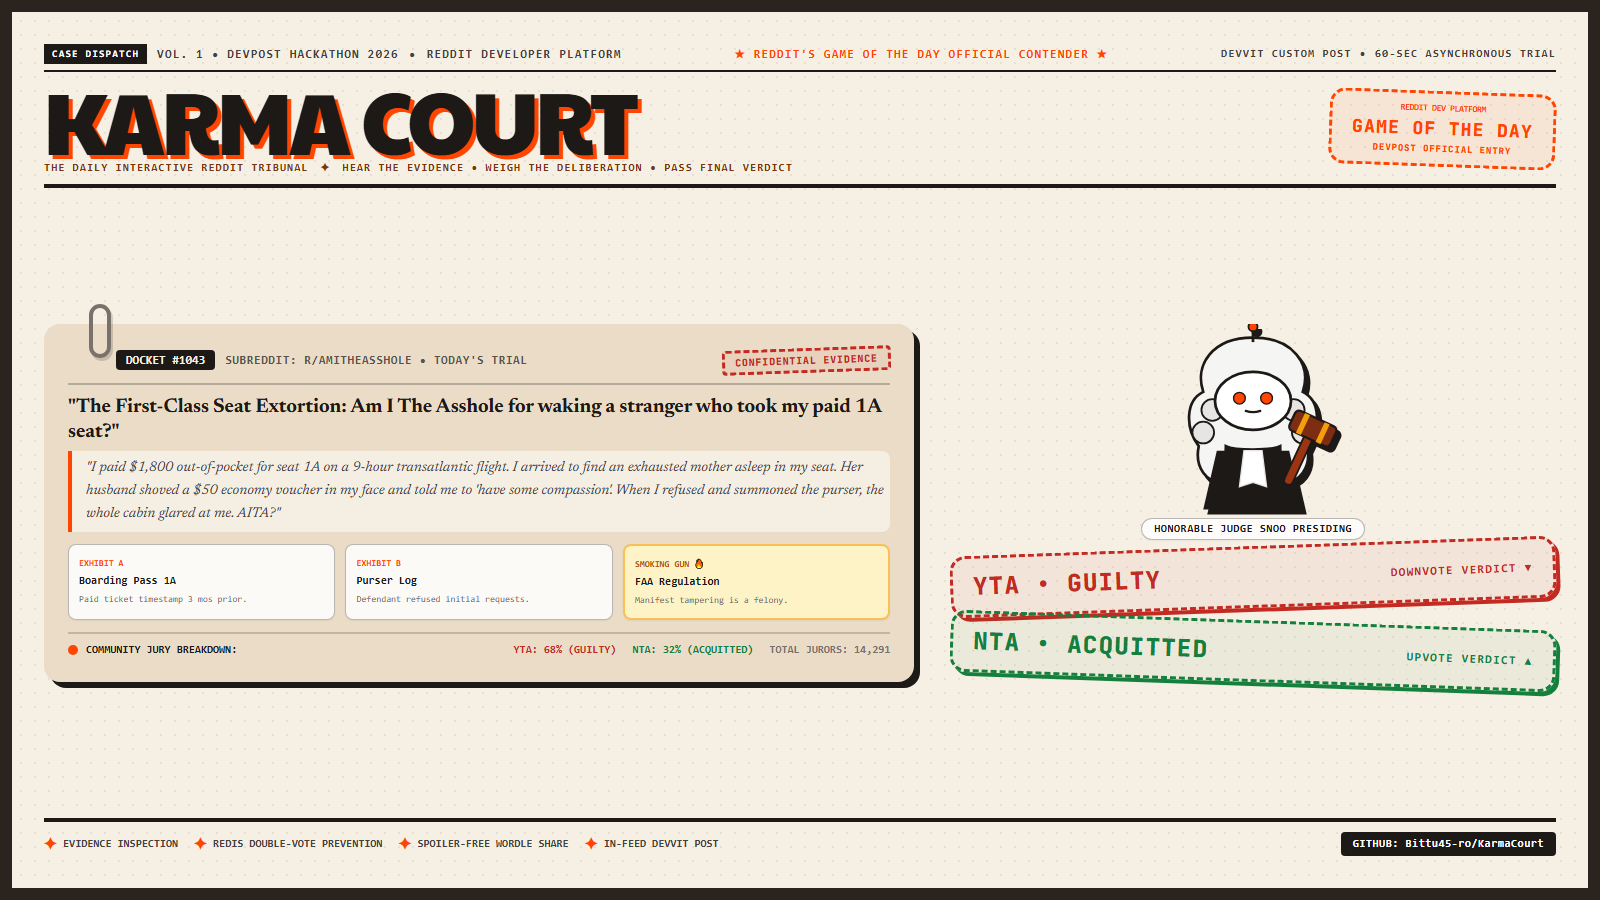
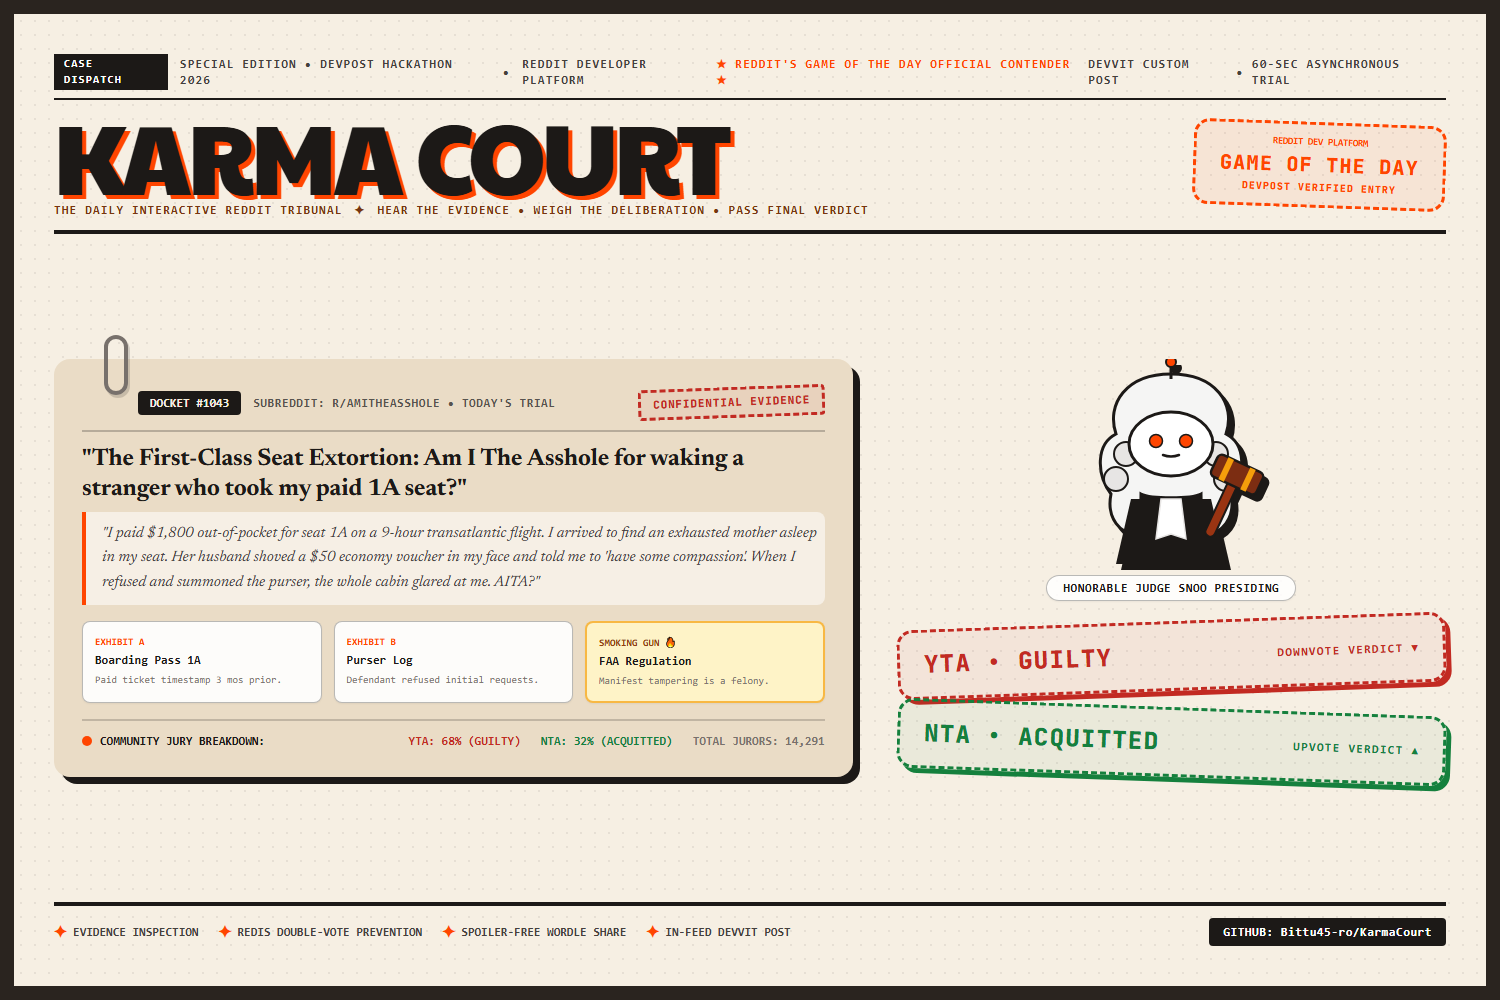
Update thumbnail: Exact 3:2 ratio (1500x1000) for Devpost specifications

Changed region(s): [[0.0, 0.0311, 1.0, 0.9644]]

diff --git a/preview/thumbnail_human.html b/preview/thumbnail_human.html
@@ -2,7 +2,7 @@
 <html lang="en">
 <head>
   <meta charset="UTF-8">
-  <title>KarmaCourt — Human Crafted Hackathon Poster</title>
+  <title>KarmaCourt — Human Crafted Hackathon Poster (3:2 Ratio)</title>
   
   <!-- Tailwind CSS -->
   <script src="https://cdn.tailwindcss.com"></script>
@@ -32,8 +32,8 @@
     }
 
     body {
-      width: 1600px;
-      height: 900px;
+      width: 1500px;
+      height: 1000px;
       overflow: hidden;
       background-color: var(--paper);
       color: var(--ink);
@@ -44,7 +44,7 @@
     /* Subtle Newsprint Halftone Texture */
     .halftone-bg {
       background-image: 
-        radial-gradient(rgba(28, 25, 23, 0.07) 1.2px, transparent 1.2px);
+        radial-gradient(rgba(28, 25, 23, 0.075) 1.2px, transparent 1.2px);
       background-size: 14px 14px;
     }
 
@@ -90,30 +90,30 @@
 
     /* Paperclip */
     .paperclip {
-      width: 22px;
-      height: 54px;
-      border: 4px solid #78716C;
-      border-radius: 12px;
+      width: 24px;
+      height: 60px;
+      border: 4.5px solid #78716C;
+      border-radius: 13px;
       position: absolute;
-      top: -20px;
-      left: 45px;
+      top: -24px;
+      left: 50px;
       z-index: 30;
       background: transparent;
       box-shadow: 2px 3px 0 rgba(0,0,0,0.15);
     }
   </style>
 </head>
-<body class="halftone-bg flex flex-col justify-between p-8 border-[12px] border-[#2A241F]">
+<body class="halftone-bg flex flex-col justify-between p-10 border-[14px] border-[#2A241F]">
 
   <!-- ========================================================
        TOP SECTION: COURTROOM GAZETTE MASTHEAD
        ======================================================== -->
   <header>
-    <!-- Top Meta Row -->
-    <div class="flex items-center justify-between text-xs font-mono font-bold tracking-widest uppercase border-b-2 border-[#1C1917] pb-1.5 text-[#44403C]">
-      <div class="flex items-center gap-2.5">
-        <span class="bg-[#1C1917] text-white px-2 py-0.5 font-black text-[10px]">CASE DISPATCH</span>
-        <span>VOL. 1 • DEVPOST HACKATHON 2026</span>
+    <!-- Top Meta Dispatch Line -->
+    <div class="flex items-center justify-between text-xs font-mono font-bold tracking-widest uppercase border-b-2 border-[#1C1917] pb-2 text-[#44403C]">
+      <div class="flex items-center gap-3">
+        <span class="bg-[#1C1917] text-white px-2.5 py-0.5 font-black text-[11px]">CASE DISPATCH</span>
+        <span>SPECIAL EDITION • DEVPOST HACKATHON 2026</span>
         <span>•</span>
         <span>REDDIT DEVELOPER PLATFORM</span>
       </div>
@@ -122,7 +122,7 @@
         <span>★ REDDIT'S GAME OF THE DAY OFFICIAL CONTENDER ★</span>
       </div>
 
-      <div class="flex items-center gap-2 text-[11px]">
+      <div class="flex items-center gap-2 text-xs">
         <span>DEVVIT CUSTOM POST</span>
         <span>•</span>
         <span>60-SEC ASYNCHRONOUS TRIAL</span>
@@ -130,12 +130,12 @@
     </div>
 
     <!-- Main Headline Banner -->
-    <div class="flex items-center justify-between pt-2.5 pb-2 border-b-4 border-[#1C1917]">
+    <div class="flex items-center justify-between pt-3 pb-3 border-b-4 border-[#1C1917]">
       <div class="flex-1">
-        <h1 class="poster-title text-[86px]">
+        <h1 class="poster-title text-[98px]">
           KARMA COURT
         </h1>
-        <div class="flex items-center gap-3 mt-0.5 font-mono text-[11px] font-black tracking-widest text-[#78350F] uppercase">
+        <div class="flex items-center gap-3 mt-1 font-mono text-xs font-black tracking-widest text-[#78350F] uppercase">
           <span>THE DAILY INTERACTIVE REDDIT TRIBUNAL</span>
           <span>✦</span>
           <span>HEAR THE EVIDENCE • WEIGH THE DELIBERATION • PASS FINAL VERDICT</span>
@@ -143,11 +143,11 @@
       </div>
 
       <!-- Right Masthead Stamp Seal -->
-      <div class="rubber-stamp stamp-orange px-5 py-2.5 rounded-2xl transform rotate-2 shrink-0">
+      <div class="rubber-stamp stamp-orange px-6 py-3 rounded-2xl transform rotate-2 shrink-0">
         <div class="flex flex-col items-center leading-none text-center">
-          <span class="text-[9px] font-mono tracking-tighter">REDDIT DEV PLATFORM</span>
-          <span class="text-lg font-black mt-0.5">GAME OF THE DAY</span>
-          <span class="text-[9px] tracking-widest mt-0.5">DEVPOST OFFICIAL ENTRY</span>
+          <span class="text-[10px] font-mono tracking-tighter">REDDIT DEV PLATFORM</span>
+          <span class="text-xl font-black mt-1">GAME OF THE DAY</span>
+          <span class="text-[10px] tracking-widest mt-1">DEVPOST VERIFIED ENTRY</span>
         </div>
       </div>
     </div>
@@ -155,20 +155,20 @@
 
 
   <!-- ========================================================
-       CENTER STAGE: PHYSICAL CASE FILE & JUDGE SNOO
+       CENTER STAGE: PHYSICAL CASE FILE & JUDGE SNOO (3:2 RATIO)
        ======================================================== -->
-  <main class="grid grid-cols-12 gap-7 items-stretch my-auto py-2">
+  <main class="grid grid-cols-12 gap-8 items-stretch my-auto py-3">
 
     <!-- LEFT 7 COLS: THE PHYSICAL MANILA CASE FILE DOCKET -->
-    <div class="col-span-7 bg-[#EADCC6] rounded-2xl p-6 border-3 border-[#1C1917] shadow-[6px_6px_0_#1C1917] relative flex flex-col justify-between">
+    <div class="col-span-7 bg-[#EADCC6] rounded-2xl p-7 border-3 border-[#1C1917] shadow-[7px_7px_0_#1C1917] relative flex flex-col justify-between">
       
       <!-- Realistic Paperclip -->
       <div class="paperclip"></div>
 
       <!-- Manila Folder Tab Header -->
-      <div class="flex items-center justify-between border-b-2 border-[#1C1917]/25 pb-2.5 mb-2.5 pl-12">
-        <div class="flex items-center gap-2.5">
-          <span class="font-mono text-xs font-black bg-[#1C1917] text-[#F6EFE3] px-2.5 py-0.5 rounded">
+      <div class="flex items-center justify-between border-b-2 border-[#1C1917]/25 pb-3 mb-3 pl-14">
+        <div class="flex items-center gap-3">
+          <span class="font-mono text-xs font-black bg-[#1C1917] text-[#F6EFE3] px-3 py-1 rounded">
             DOCKET #1043
           </span>
           <span class="font-mono text-xs font-bold text-[#57534E] uppercase tracking-wider">
@@ -177,47 +177,47 @@
         </div>
 
         <!-- Red Confidential Stamp -->
-        <div class="rubber-stamp stamp-red px-2.5 py-0.5 rounded text-[10px] transform -rotate-2">
+        <div class="rubber-stamp stamp-red px-3 py-1 rounded text-[11px] transform -rotate-2">
           CONFIDENTIAL EVIDENCE
         </div>
       </div>
 
       <!-- Case Dilemma Story -->
-      <div class="mb-3">
-        <h2 class="text-xl font-bold leading-tight text-[#1C1917] mb-1.5 font-display">
+      <div class="mb-4">
+        <h2 class="text-2xl font-bold leading-tight text-[#1C1917] mb-2 font-display">
           "The First-Class Seat Extortion: Am I The Asshole for waking a stranger who took my paid 1A seat?"
         </h2>
-        <p class="text-[14px] text-[#44403C] leading-relaxed italic border-l-4 border-[#FF4500] pl-3.5 bg-white/50 py-1.5 rounded-r-lg">
+        <p class="text-[15px] text-[#44403C] leading-relaxed italic border-l-4 border-[#FF4500] pl-4 bg-white/55 py-2.5 rounded-r-lg">
           "I paid $1,800 out-of-pocket for seat 1A on a 9-hour transatlantic flight. I arrived to find an exhausted mother asleep in my seat. Her husband shoved a $50 economy voucher in my face and told me to 'have some compassion'. When I refused and summoned the purser, the whole cabin glared at me. AITA?"
         </p>
       </div>
 
       <!-- The 3 Attached Exhibits (Deduction Mechanics) -->
-      <div class="grid grid-cols-3 gap-2.5 mb-3 font-mono text-xs">
-        <div class="bg-white/85 p-2.5 rounded-lg border border-[#1C1917]/30 shadow-sm">
-          <span class="font-bold text-[#FF4500] block text-[9px] uppercase">EXHIBIT A</span>
-          <span class="font-black text-[#1C1917] block text-[11px] mt-0.5">Boarding Pass 1A</span>
-          <span class="text-[9px] text-[#78716C] block mt-0.5">Paid ticket timestamp 3 mos prior.</span>
+      <div class="grid grid-cols-3 gap-3 mb-4 font-mono text-xs">
+        <div class="bg-white/90 p-3 rounded-lg border border-[#1C1917]/30 shadow-sm">
+          <span class="font-bold text-[#FF4500] block text-[10px] uppercase">EXHIBIT A</span>
+          <span class="font-black text-[#1C1917] block text-xs mt-0.5">Boarding Pass 1A</span>
+          <span class="text-[10px] text-[#78716C] block mt-1">Paid ticket timestamp 3 mos prior.</span>
         </div>
-        <div class="bg-white/85 p-2.5 rounded-lg border border-[#1C1917]/30 shadow-sm">
-          <span class="font-bold text-[#FF4500] block text-[9px] uppercase">EXHIBIT B</span>
-          <span class="font-black text-[#1C1917] block text-[11px] mt-0.5">Purser Log</span>
-          <span class="text-[9px] text-[#78716C] block mt-0.5">Defendant refused initial requests.</span>
+        <div class="bg-white/90 p-3 rounded-lg border border-[#1C1917]/30 shadow-sm">
+          <span class="font-bold text-[#FF4500] block text-[10px] uppercase">EXHIBIT B</span>
+          <span class="font-black text-[#1C1917] block text-xs mt-0.5">Purser Log</span>
+          <span class="text-[10px] text-[#78716C] block mt-1">Defendant refused initial requests.</span>
         </div>
-        <div class="bg-amber-100/95 p-2.5 rounded-lg border-2 border-amber-500/60 shadow-sm">
-          <span class="font-black text-amber-700 block text-[9px] uppercase">SMOKING GUN 🔥</span>
-          <span class="font-black text-[#1C1917] block text-[11px] mt-0.5">FAA Regulation</span>
-          <span class="text-[9px] text-[#78716C] block mt-0.5">Manifest tampering is a felony.</span>
+        <div class="bg-amber-100 p-3 rounded-lg border-2 border-amber-500/70 shadow-sm">
+          <span class="font-black text-amber-800 block text-[10px] uppercase">SMOKING GUN 🔥</span>
+          <span class="font-black text-[#1C1917] block text-xs mt-0.5">FAA Regulation</span>
+          <span class="text-[10px] text-[#78716C] block mt-1">Manifest tampering is a felony.</span>
         </div>
       </div>
 
       <!-- Voting Verdict Strip Inside Docket -->
-      <div class="flex items-center justify-between pt-2 border-t-2 border-[#1C1917]/20 font-mono text-xs">
+      <div class="flex items-center justify-between pt-3 border-t-2 border-[#1C1917]/20 font-mono text-xs">
         <div class="flex items-center gap-2">
           <span class="w-2.5 h-2.5 rounded-full bg-[#FF4500]"></span>
-          <span class="font-black text-[#1C1917] text-[11px]">COMMUNITY JURY BREAKDOWN:</span>
+          <span class="font-black text-[#1C1917]">COMMUNITY JURY BREAKDOWN:</span>
         </div>
-        <div class="flex items-center gap-4 font-black text-[11px]">
+        <div class="flex items-center gap-5 font-black">
           <span class="text-[#C22A22]">YTA: 68% (GUILTY)</span>
           <span class="text-[#15803D]">NTA: 32% (ACQUITTED)</span>
           <span class="text-[#78716C]">TOTAL JURORS: 14,291</span>
@@ -227,13 +227,13 @@
     </div>
 
     <!-- RIGHT 5 COLS: JUDGE SNOO MASCOT + TACTILE STAMPS -->
-    <div class="col-span-5 flex flex-col justify-between items-center text-center pl-2">
+    <div class="col-span-5 flex flex-col justify-between items-center text-center pl-3">
       
       <!-- Top: Handcrafted Judge Snoo with British Judge Wig & Gavel -->
       <div class="relative flex flex-col items-center">
         
         <!-- Authentic Handcrafted Judge Snoo SVG -->
-        <svg width="200" height="190" viewBox="0 0 220 210" fill="none" class="filter drop-shadow-[4px_5px_0_#1C1917]">
+        <svg width="220" height="210" viewBox="0 0 220 210" fill="none" class="filter drop-shadow-[5px_6px_0_#1C1917]">
           <!-- Classic Powdered Judge Wig (White Curly Hair) -->
           <path d="M55 75 C45 45, 65 15, 110 15 C155 15, 175 45, 165 75 C185 85, 185 115, 170 135 C175 160, 160 175, 145 175 C140 160, 140 145, 140 135 C130 140, 90 140, 80 135 C80 145, 80 160, 75 175 C60 175, 45 160, 50 135 C35 115, 35 85, 55 75 Z" fill="#F5F5F4" stroke="#1C1917" stroke-width="3"/>
           <circle cx="65" cy="95" r="12" fill="#E7E5E4" stroke="#1C1917" stroke-width="2"/>
@@ -268,27 +268,27 @@
           <circle cx="110" cy="3" r="5" fill="#FF4500" stroke="#1C1917" stroke-width="2"/>
         </svg>
 
-        <span class="font-mono text-[11px] font-black uppercase text-[#1C1917] mt-1 tracking-wider bg-white/80 px-3 py-0.5 rounded-full border border-[#1C1917]/30 shadow-sm">
+        <span class="font-mono text-xs font-black uppercase text-[#1C1917] mt-1.5 tracking-wider bg-white/85 px-4 py-1 rounded-full border border-[#1C1917]/30 shadow-sm">
           HONORABLE JUDGE SNOO PRESIDING
         </span>
       </div>
 
       <!-- The Two Massive Physical Rubber Stamp Choices -->
-      <div class="w-full flex flex-col gap-3 mt-1.5">
+      <div class="w-full flex flex-col gap-4 mt-2">
         
         <!-- CRIMSON GUILTY STAMP -->
-        <div class="rubber-stamp stamp-red py-3 px-5 rounded-2xl transform -rotate-2 shadow-[4px_4px_0_#C22A22]">
+        <div class="rubber-stamp stamp-red py-4 px-6 rounded-2xl transform -rotate-2 shadow-[5px_5px_0_#C22A22]">
           <div class="flex items-center justify-between w-full">
             <span class="text-2xl font-black">YTA • GUILTY</span>
-            <span class="text-xs font-mono font-bold">DOWNVOTE VERDICT ▼</span>
+            <span class="text-xs font-mono font-black">DOWNVOTE VERDICT ▼</span>
           </div>
         </div>
 
         <!-- FOREST GREEN ACQUITTED STAMP -->
-        <div class="rubber-stamp stamp-green py-3 px-5 rounded-2xl transform rotate-2 shadow-[4px_4px_0_#15803D]">
+        <div class="rubber-stamp stamp-green py-4 px-6 rounded-2xl transform rotate-2 shadow-[5px_5px_0_#15803D]">
           <div class="flex items-center justify-between w-full">
             <span class="text-2xl font-black">NTA • ACQUITTED</span>
-            <span class="text-xs font-mono font-bold">UPVOTE VERDICT ▲</span>
+            <span class="text-xs font-mono font-black">UPVOTE VERDICT ▲</span>
           </div>
         </div>
 
@@ -302,10 +302,10 @@
   <!-- ========================================================
        BOTTOM FOOTER: EDITORIAL COLOPHON & DEVPOST DETAILS
        ======================================================== -->
-  <footer class="border-t-4 border-[#1C1917] pt-2.5 flex items-center justify-between font-mono text-xs">
+  <footer class="border-t-4 border-[#1C1917] pt-3 flex items-center justify-between font-mono text-xs">
     
     <!-- Left: Core Unique Features -->
-    <div class="flex items-center gap-4 text-[#44403C] font-extrabold text-[11px]">
+    <div class="flex items-center gap-5 text-[#44403C] font-extrabold text-xs">
       <div class="flex items-center gap-1.5">
         <span class="text-base text-[#FF4500]">✦</span>
         <span>EVIDENCE INSPECTION</span>
@@ -326,7 +326,7 @@
 
     <!-- Right: Open Source Attribution -->
     <div class="flex items-center gap-2">
-      <span class="bg-[#1C1917] text-white px-3 py-1 rounded font-black tracking-wider text-[11px]">
+      <span class="bg-[#1C1917] text-white px-3.5 py-1.5 rounded font-black tracking-wider text-xs">
         GITHUB: Bittu45-ro/KarmaCourt
       </span>
     </div>
